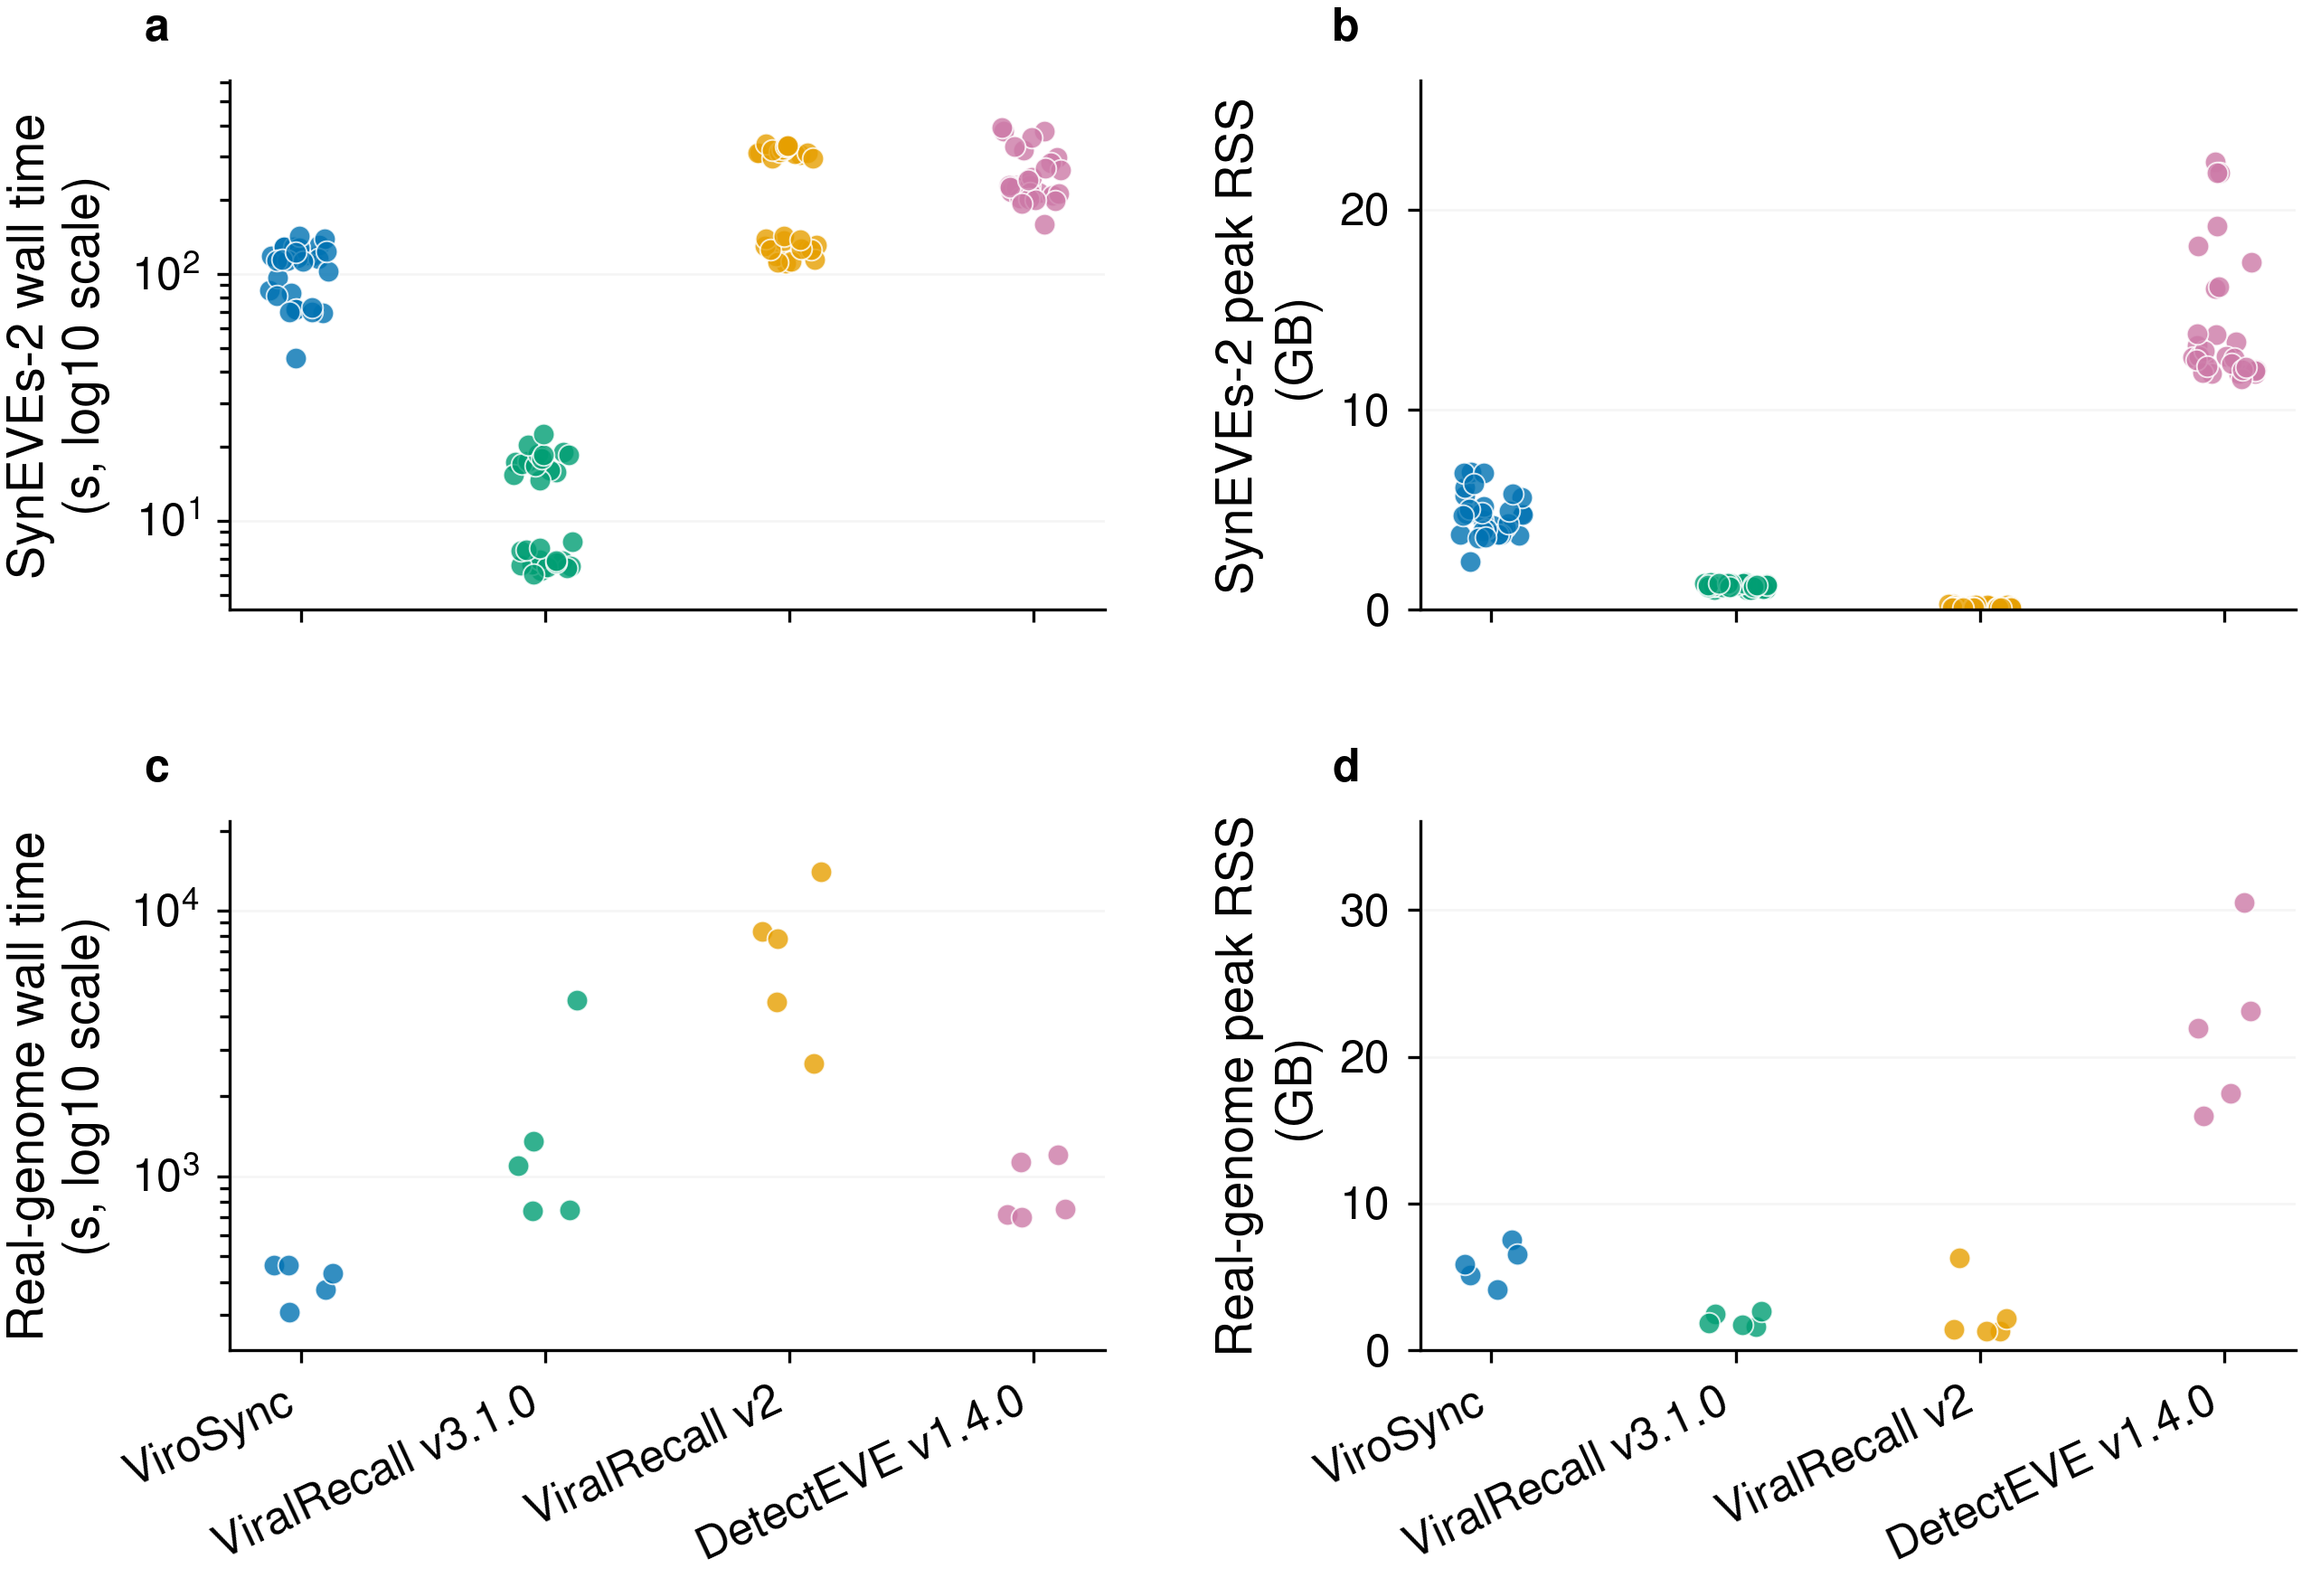
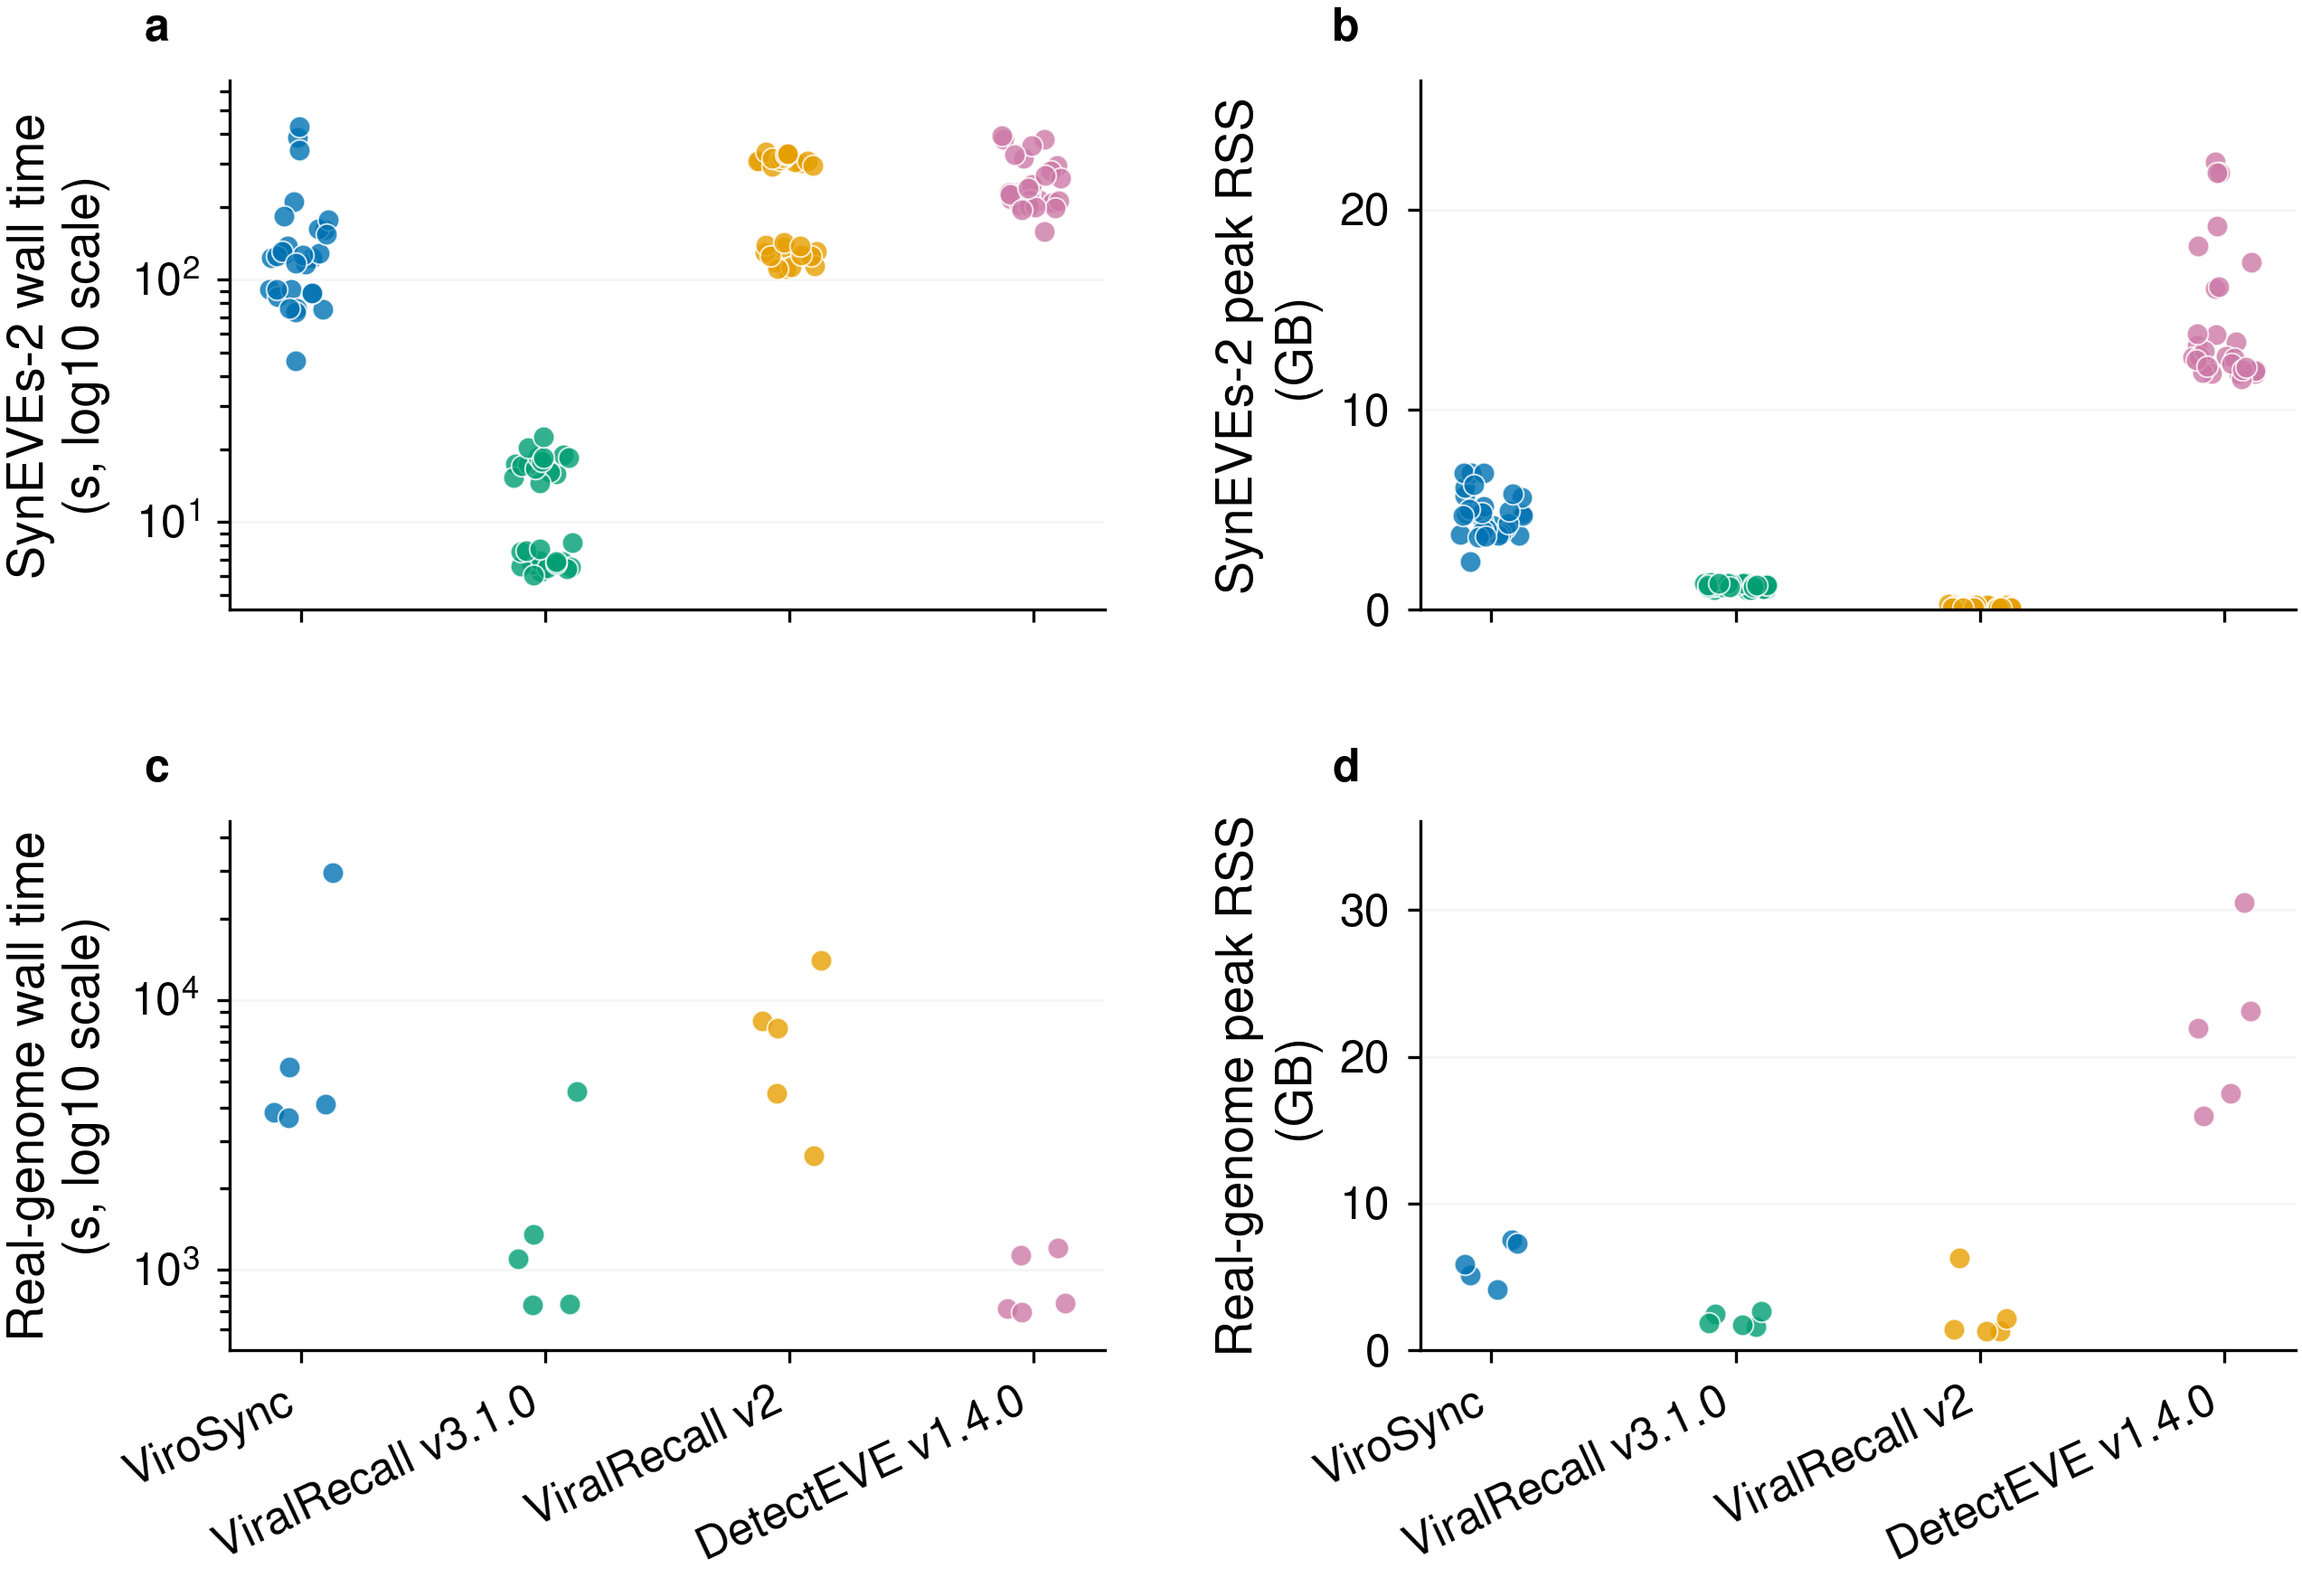
docs(benchmark): refresh current pipeline results

diff --git a/docs/performance.md b/docs/performance.md
@@ -1,14 +1,14 @@
 # Performance
 
-The 5 September 2026 test used ViroSync 1.0.0 with the
-[pipeline fixes in 091cfc1](https://github.com/NeLLi-team/virosync/commit/091cfc1),
-v1.0.7 databases, and no optional analyses. ViroSync ran up to two inputs at
+The September 17 benchmark used ViroSync development revision
+`82d67d85e503c49c012bad4a3686c0316d0d2333` (version 1.0.1), with
+v1.1.0 resources and no optional analyses. ViroSync ran up to two inputs at
 once. Select a figure to open the full-size image.
 
 ## Synthetic boundary recovery
 
 The synthetic set contains 60 loci and 3,365.2 kb of inserted sequence. Mean
-best-call boundary recall was 0.782 for ViroSync, 0.596 for ViralRecall v3.1.0,
+best-call boundary recall was 0.777 for ViroSync, 0.596 for ViralRecall v3.1.0,
 0.307 for ViralRecall v2, 0.056 for DetectEVE v1.4.0, and 0.066 for EEfinder
 v1.1.1.
 
@@ -25,29 +25,31 @@ so the plot does not report specificity or accuracy.*
 
 ## Runtime and peak memory
 
-Mean wall time across 30 SynEVEs-2 inputs was 104.6 seconds for ViroSync and
+Mean wall time across 30 SynEVEs-2 inputs was 144.8 seconds for ViroSync and
 12.3 seconds for ViralRecall v3.1.0. Across five real-genome inputs, the means
-were 407.7 and 1,705.5 seconds. Campaign concurrency differed, so these values
+were 9,364.0 and 1,705.5 seconds. Campaign concurrency differed, so these values
 do not give a general speed ranking.
 
 [![Runtime and peak resident memory](assets/performance/benchmark_figS1_runtime_memory_with_vr30.png)](assets/performance/benchmark_figS1_runtime_memory_with_vr30.png)
 
 *Per-input wall time and peak resident memory for 30 SynEVEs-2 inputs and five
 real-genome inputs. All tools used 16 threads or cores on the same 64-core
-host, but campaign concurrency differed. Wall time includes contention and
+host, but campaign concurrency differed. The first 15 ViroSync synthetic inputs
+were retimed without the overlapping example-validation job; other ViroSync
+timings come from the original campaign. Wall time includes contention and
 database caching. Peak RSS is shown in decimal GB for the largest single
 process, not the process tree. EEfinder is absent because its campaign used
 different load and concurrency.*
 
 ## Real-genome output
 
-ViroSync accepted 523 regions across the five real genomes. These inputs have
+ViroSync accepted 524 regions across the five real genomes. These inputs have
 no complete region-level truth set. The figure describes output burden and
 gene content, not detection accuracy.
 
 [![Real-genome candidate burden and gene composition](assets/performance/benchmark_fig3_real_burden_composition.png)](assets/performance/benchmark_fig3_real_burden_composition.png)
 
-*Candidate count, called sequence, and gene composition across five real
+*Candidate count, summed region length, and gene composition across five real
 genomes. DetectEVE and EEfinder emit short homology hits. Their counts measure
 output granularity and are not direct locus-count comparisons.*
 

diff --git a/docs/METHODS.md b/docs/METHODS.md
@@ -172,9 +172,10 @@ The search uses exact 7 bp seeds and ungapped matches of at least 50 bp at 90%
 identity or better. It scores matches at +2 and mismatches at −4 and uses the
 full local alignment to select matching outer bases. It reports at most 500 bp
 from each outer end; these reported segments must also meet the identity
-threshold. It rejects non-ACGT arms, arms with more than 80% of one
-base, base entropy below 1.2 bits, and simple repeats with at least 80% periodic
-identity for periods of 1–12 bp. The 50 bp minimum is an empirical search
+threshold. It rejects a reported left arm containing non-ACGT bases, more than
+80% of one base, base entropy below 1.2 bits, or at least 80% periodic identity
+for periods of 1–12 bp. The right arm is checked against the identity threshold
+without a separate complexity filter. The 50 bp minimum is an empirical search
 cutoff, not a biological limit. Shorter, diverged or indel-rich TIRs can be
 missed. The reported matched segment can cover only part of a longer repeat;
 `tir_alignment_capped=1` identifies shortened segments. The full ungapped
